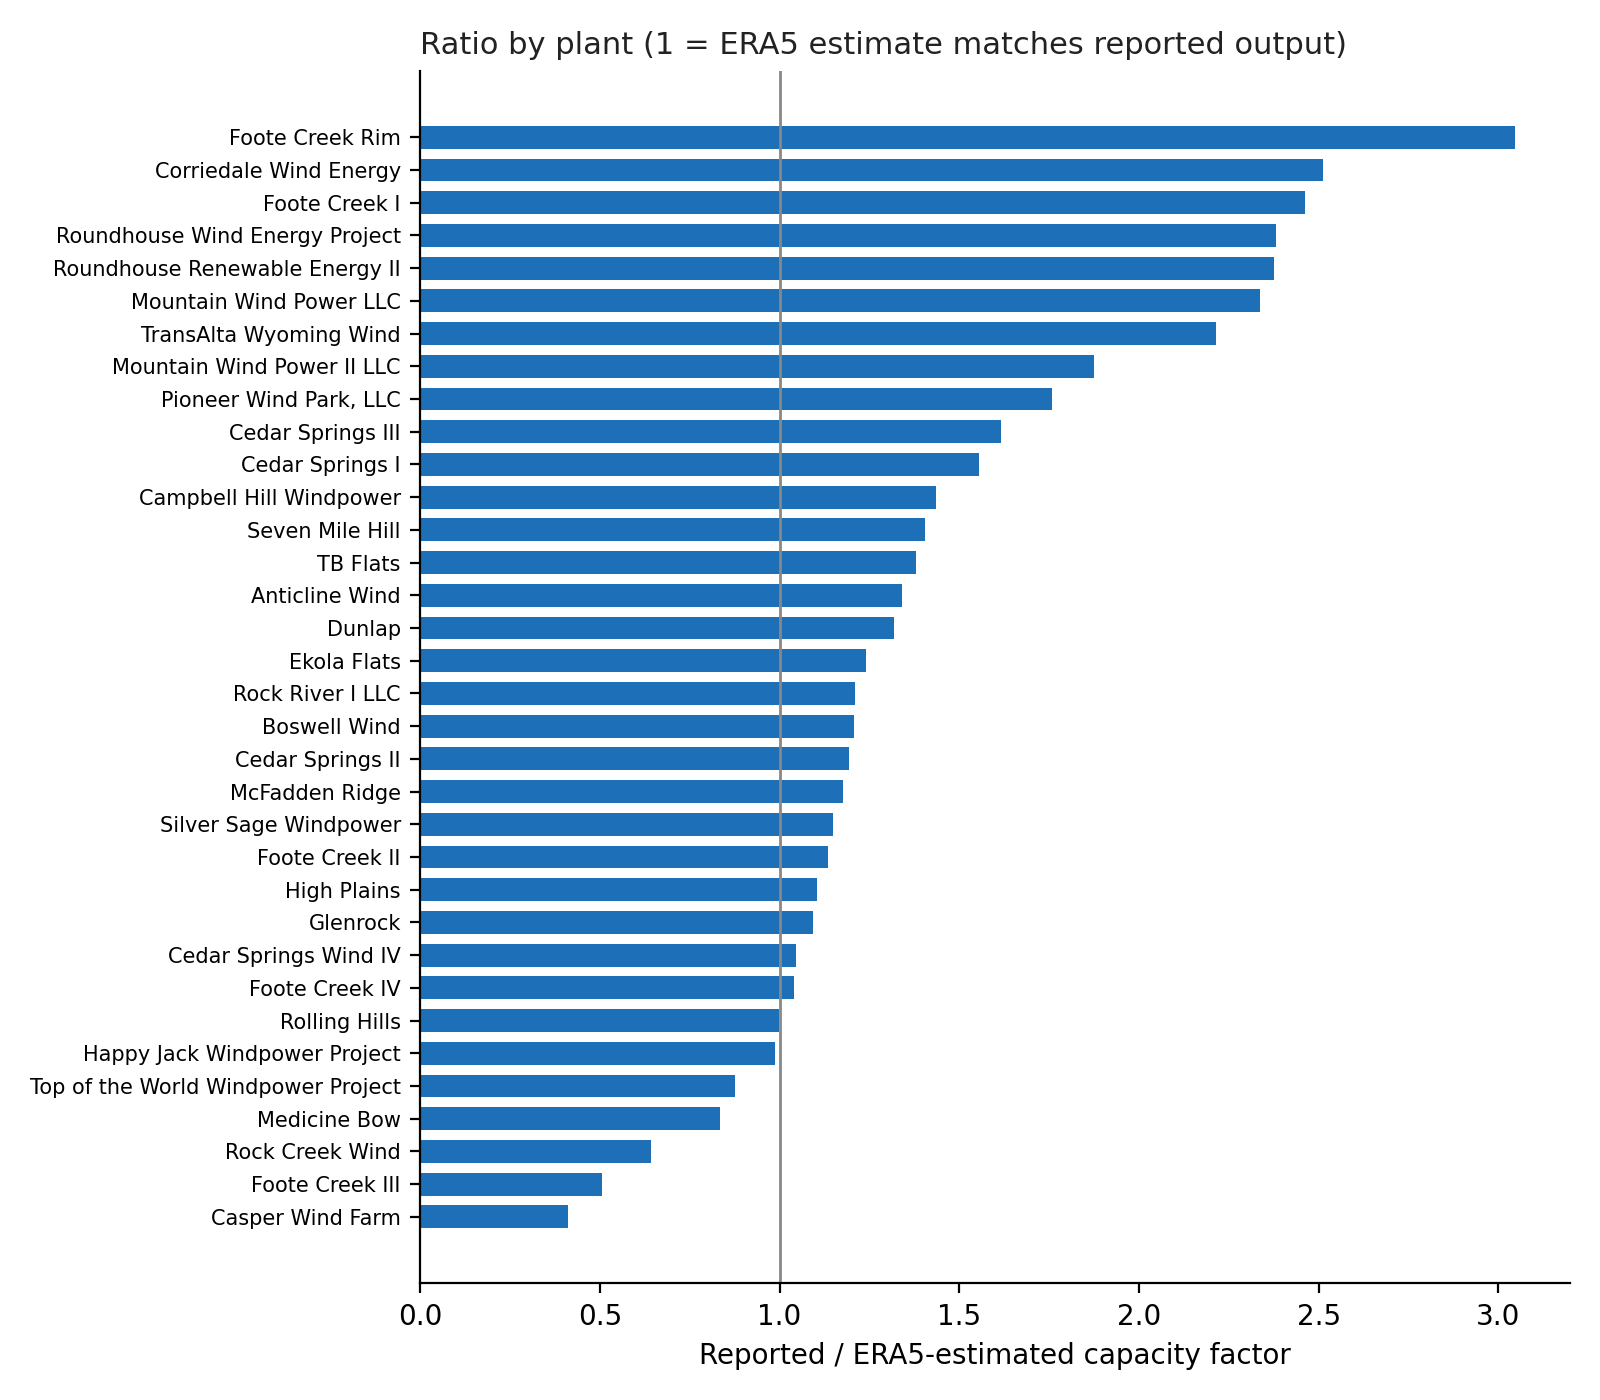
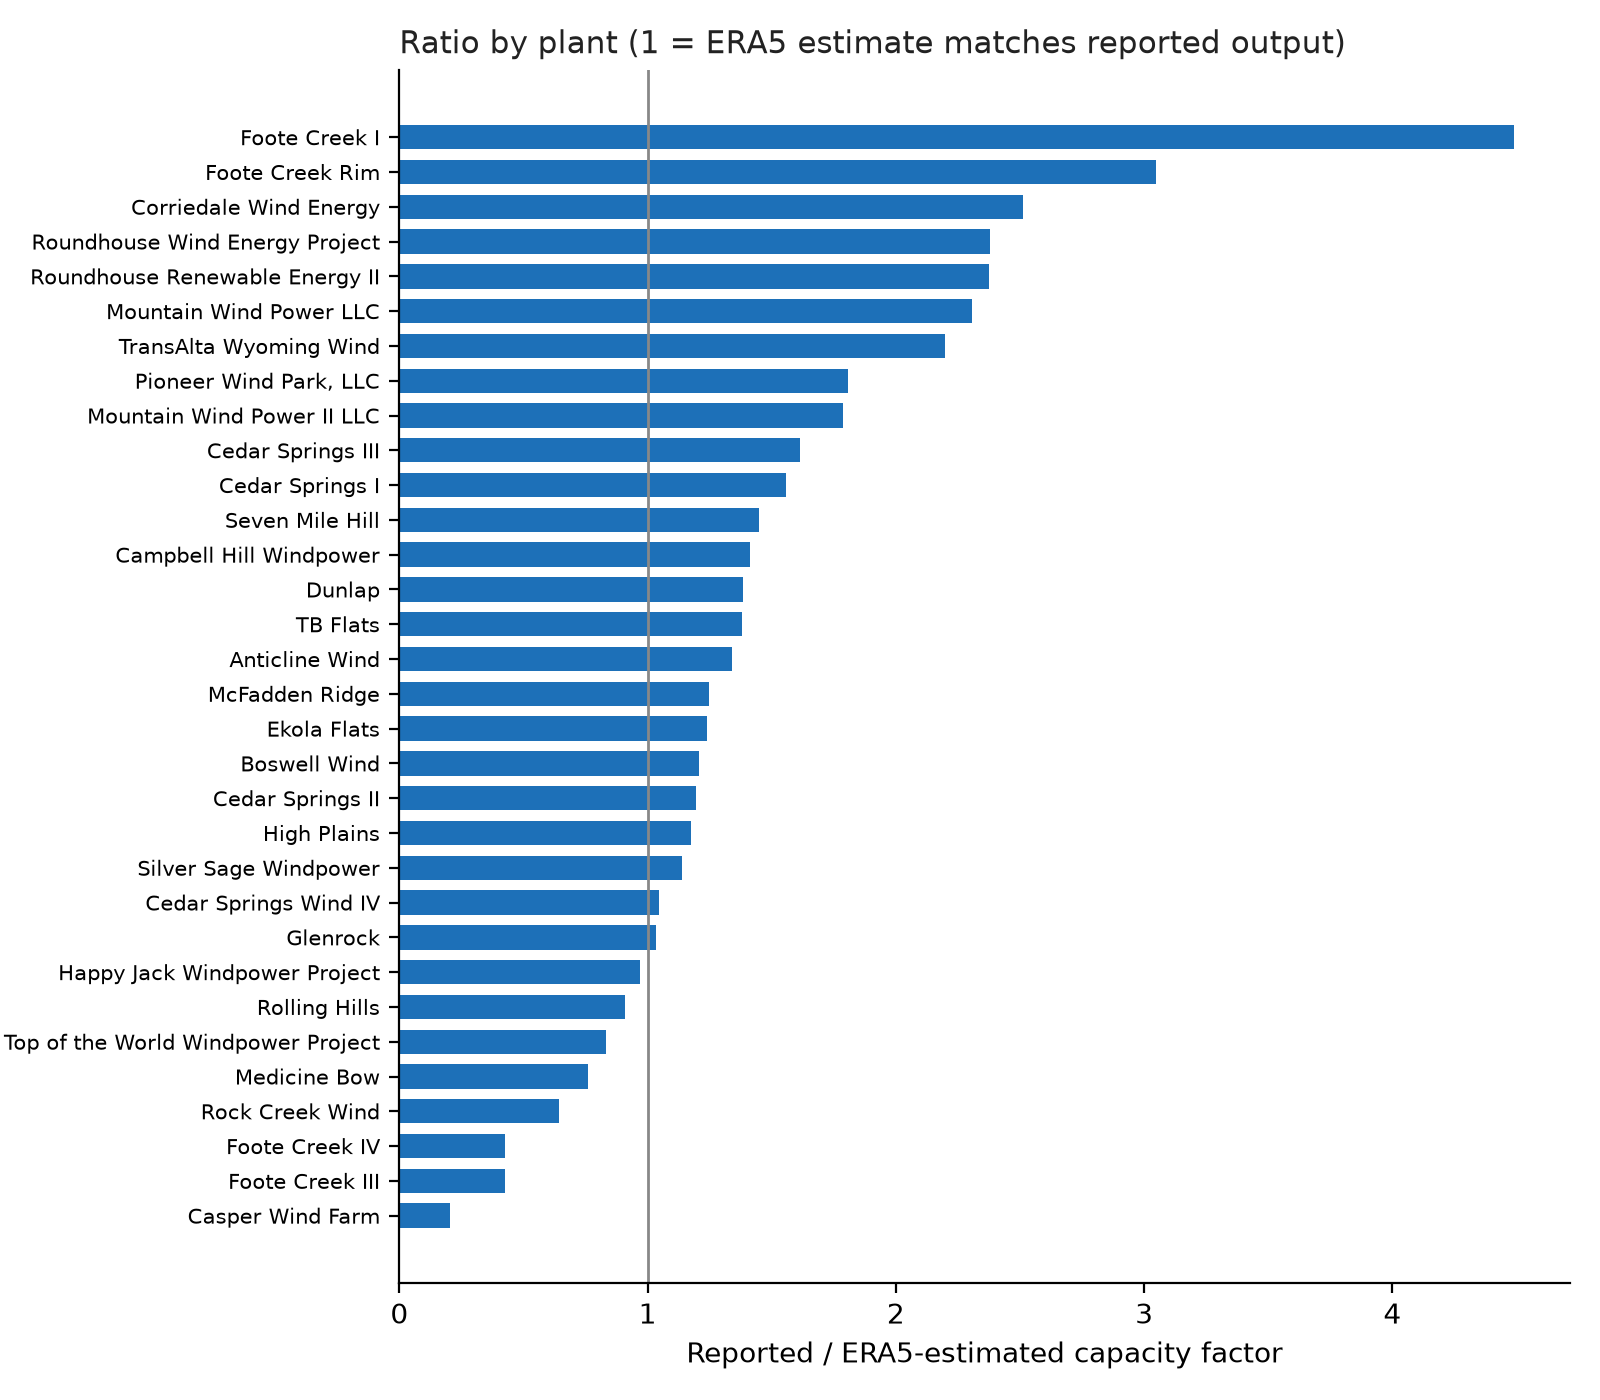
Leave out EIA-estimated monthly values; revise results

diff --git a/summarise.py b/summarise.py
@@ -2,7 +2,32 @@
 import numpy as np, pandas as pd, matplotlib
 matplotlib.use("Agg"); import matplotlib.pyplot as plt
 M = pd.read_csv("monthly_comparison.csv", parse_dates=["month"])
-ok = M.dropna(subset=["cf_reported"]); ok = ok[(ok.cf_reported > 0.02) & (ok.cap_mw > 0)]
+M["year"] = M.month.dt.year
+# EIA-923 respondent frequency (fetch_frequency.py). For annual respondents (A), EIA estimates the
+# monthly values by spreading the annual total over a common profile, so those plant-years are left out.
+F = pd.read_csv("data/eia923_respondent_frequency.csv")
+M = M.merge(F, on=["plant_id_eia", "year"], how="left")
+base = M.dropna(subset=["cf_reported"]); base = base[(base.cf_reported > 0.02) & (base.cap_mw > 0)]
+est = base[base.respondent_frequency == "A"]
+# Check: within each year, the estimated plants share one monthly profile exactly.
+spread = []
+for y, g in est.groupby("year"):
+    piv = g.pivot_table(index="plant_id_eia", columns=g.month.dt.month, values="gen_mwh").dropna()
+    if len(piv) > 1 and piv.shape[1] == 12:
+        sh = piv.div(piv.sum(axis=1), axis=0); spread.append((y, len(piv), float((sh.max() - sh.min()).max())))
+print("EIA-estimated plant-years, largest spread of monthly shares within a year:", spread)
+def headline(d):
+    s = d.groupby("plant_id_eia").agg(r=("cf_reported", "mean"), e=("cf_era5", "mean"))
+    c = d.groupby("plant_id_eia").apply(lambda g: np.corrcoef(g.cf_reported, g.cf_era5)[0, 1] if len(g) > 2 else np.nan)
+    m = d.groupby(d.month.dt.month).agg(r=("cf_reported", "mean"), e=("cf_era5", "mean")); m = m.r / m.e
+    return dict(plants=d.plant_id_eia.nunique(), plant_months=len(d), cf_reported=round(d.cf_reported.mean(), 3),
+                cf_era5=round(d.cf_era5.mean(), 3), ratio=round(d.cf_reported.mean() / d.cf_era5.mean(), 2),
+                median_plant_ratio=round((s.r / s.e).median(), 2), median_corr=round(c.median(), 2),
+                ratio_dec=round(m[12], 2), ratio_jul=round(m[7], 2))
+ok = base[base.respondent_frequency != "A"].copy()
+pd.DataFrame([dict(months="all, including EIA estimates", **headline(base)),
+              dict(months="reported monthly values only (used)", **headline(ok))]).to_csv("headline.csv", index=False)
+print(pd.read_csv("headline.csv").to_string())
 s = ok.groupby(["plant_id_eia", "name"]).agg(months=("month", "size"), cap_mw=("cap_mw", "max"),
         cf_reported=("cf_reported", "mean"), cf_era5=("cf_era5", "mean"), mean_v_hub=("v_hub", "mean"),
         mean_rho=("rho", "mean"))
@@ -14,7 +39,7 @@ seas = ok.groupby("mon").agg(cf_reported=("cf_reported", "mean"), cf_era5=("cf_e
 seas["ratio"] = seas.cf_reported / seas.cf_era5; seas.round(3).to_csv("seasonal_summary.csv")
 INK, MUTED, A, B = "#222222", "#888888", "#1d70b8", "#d4691a"
 fig, ax = plt.subplots(figsize=(8, 4.2))
-ax.plot(seas.index, seas.cf_reported, color=A, lw=2, marker="o", ms=5, label="Reported (EIA-923)")
+ax.plot(seas.index, seas.cf_reported, color=A, lw=2, marker="o", ms=5, label="Reported (EIA-923, monthly values only)")
 ax.plot(seas.index, seas.cf_era5, color=B, lw=2, marker="o", ms=5, label="ERA5 estimate")
 ax.set_xticks(range(1, 13)); ax.set_xticklabels(list("JFMAMJJASOND"))
 ax.set_ylabel("Mean capacity factor"); ax.set_ylim(0, 0.5)

diff --git a/fetch_frequency.py b/fetch_frequency.py
@@ -1,0 +1,36 @@
+"""Record how each Wyoming wind plant reported to EIA-923 in each year (data/eia923_respondent_frequency.csv).
+
+EIA-923's "Respondent Frequency" column is M for plants that report monthly and A for plants
+that report once a year. For A plants, EIA estimates the monthly values itself by spreading the
+annual total over a common monthly profile, so their monthly generation is not a measurement.
+(AM plants report annually but supply monthly values.) summarise.py leaves the A plant-years out.
+
+Downloads the EIA-923 archive files for 2019 to 2025 (about 22 MB each) into a temporary folder.
+"""
+import csv, io, tempfile, urllib.request, zipfile, pathlib
+import openpyxl
+
+URL = "https://www.eia.gov/electricity/data/eia923/archive/xls/f923_{y}.zip"
+rows = []
+with tempfile.TemporaryDirectory() as tmp:
+    for y in range(2019, 2026):
+        path = pathlib.Path(tmp) / f"f923_{y}.zip"
+        urllib.request.urlretrieve(URL.format(y=y), path)
+        z = zipfile.ZipFile(path)
+        name = next(n for n in z.namelist() if "Schedules_2_3_4_5" in n)
+        wb = openpyxl.load_workbook(io.BytesIO(z.read(name)), read_only=True)
+        ws = wb[next(s for s in wb.sheetnames if "Page 1 Generation and Fuel" in s)]
+        hdr = None
+        for r in ws.iter_rows(values_only=True):
+            if hdr is None:
+                if r and any(isinstance(c, str) and "Plant Id" in c for c in r if c):
+                    hdr = {str(c).replace("\n", " "): i for i, c in enumerate(r) if c}
+                    state = next(h for h in hdr if "State" in h)
+                continue
+            if r[hdr[state]] == "WY" and r[hdr["Reported Prime Mover"]] == "WT":
+                rows.append((r[hdr["Plant Id"]], y, r[hdr["Respondent Frequency"]] or ""))
+        print(y, name)
+rows = sorted(set(rows))
+with open("data/eia923_respondent_frequency.csv", "w", newline="") as f:
+    w = csv.writer(f); w.writerow(["plant_id_eia", "year", "respondent_frequency"]); w.writerows(rows)
+print(len(rows), "plant-years written")

diff --git a/README.md b/README.md
@@ -1,6 +1,6 @@
 # Wyoming wind capacity factors
 
-Noah Parsons. Results as of 21 November 2026.
+Noah Parsons. Results as of 22 November 2026 (revised to leave out monthly values that EIA estimates rather than collects).
 
 ## Question
 
@@ -11,6 +11,7 @@ Reanalysis estimates of wind output are widely used for planning studies and gri
 ## Data
 
 - **Reported output:** monthly net generation per generator from EIA-923, and capacity, operating and retirement dates from EIA-860, both through the PUDL data release (Catalyst Cooperative, CC-BY-4.0). A generator counts towards a month's capacity only if it was in service for the whole month.
+- **How each plant reported:** EIA-923's respondent-frequency code for every Wyoming wind plant, 2019 to 2025, read from EIA's own EIA-923 files by `fetch_frequency.py` (`data/eia923_respondent_frequency.csv`). Plants coded A report only an annual total; EIA then estimates their monthly values by spreading that total over a common monthly profile.
 - **Hub heights and turbine models:** the EIA-860 wind table (PUDL `core_eia860__scd_generators_wind`).
 - **Weather:** ERA5 hourly wind speed at 10 m and 100 m, 2 m temperature and surface pressure, from the Open-Meteo ERA5 archive, for the 0.25-degree cell nearest each plant. The data run from January 2019 to December 2025.
 
@@ -21,22 +22,33 @@ Reanalysis estimates of wind output are widely used for planning studies and gri
 3. Pass the result through a generic power curve: cut-in 3 m/s, rated 12 m/s, cut-out 25 m/s, cubic in between.
 4. Apply no losses. The gap between the estimate and the reported output is the quantity being measured.
 
-Plant-months with a reported capacity factor below 2% are left out, since they mostly reflect commissioning or outages. That leaves 34 plants and 1,945 plant-months.
+Plant-months with a reported capacity factor below 2% are left out, since they mostly reflect commissioning or outages.
+
+Plant-years in which EIA estimated the monthly values (code A) are also left out. They are not measurements: in each year from 2019 to 2022, every estimated plant has exactly the same monthly profile (the monthly shares agree to within 4 × 10⁻⁷), and in 2019 that covers all 21 plants then operating. This removes 681 of the 1,945 plant-months, leaving 32 plants and 1,264 plant-months, all from 2020 to 2025. Version 1 of these results, of 21 November 2026, included the estimated months; `headline.csv` gives both.
 
 ## Results
 
 | | Reported | ERA5 estimate | Ratio |
 |---|---|---|---|
-| All plant-months | 0.321 | 0.235 | 1.37 |
-| Median plant ratio | | | 1.23 |
+| All plant-months | 0.332 | 0.231 | 1.44 |
+| Median plant ratio | | | 1.29 |
 
-- **ERA5 underestimates Wyoming's wind output, and by far the most in summer.** In December the estimate is within 5% of reported output. In July it is less than half: a ratio of 2.31, falling from 1.05 in December (`seasonal_summary.csv`, `fig_seasonal.png`).
-- **The shortfall is largest at the ridge-top sites.** The worst ratios are at Foote Creek Rim (3.0), Corriedale (2.5), Foote Creek I (2.5), and Roundhouse and Roundhouse II (2.4) (`plant_summary.csv`, `fig_plant_ratio.png`). Foote Creek and Roundhouse sit on the high ridges west of Laramie and Cheyenne, terrain the 0.25-degree grid smooths away.
-- **ERA5 gets the timing right even where it gets the level wrong.** The median correlation between reported and estimated monthly capacity factor is 0.82. A plant-by-plant, month-by-month scaling factor would therefore recover most of the gap, and this table supplies one.
-- **A few plants sit well below the estimate, which points to their reported data, not to ERA5.** Casper Wind Farm reports a mean capacity factor of 9.3% (ratio 0.41), and Foote Creek III and Rock Creek have only 13 and 4 usable months. These are worth checking against EIA's raw filings before anything is concluded.
+(Including EIA's estimated months, as version 1 did: 0.321, 0.235, 1.36 and 1.22, from `headline.csv`; version 1 printed the last two as 1.37 and 1.23.)
+
+- **ERA5 underestimates Wyoming's wind output, and by far the most in summer.** In December the estimate is within 15% of reported output. In July it is less than half: a ratio of 2.29, against 1.15 in December (`seasonal_summary.csv`, `fig_seasonal.png`).
+- **The shortfall is largest at the ridge-top sites.** The worst ratios are at Foote Creek I (4.5, 11 months; see below), Foote Creek Rim (3.0), Corriedale (2.5), and Roundhouse and Roundhouse II (2.4) (`plant_summary.csv`, `fig_plant_ratio.png`). Foote Creek and Roundhouse sit on the high ridges west of Laramie and Cheyenne, terrain the 0.25-degree grid smooths away.
+- **ERA5 gets the timing right even where it gets the level wrong.** The median correlation between reported and estimated monthly capacity factor is 0.87 (0.82 with EIA's estimated months included, since those months follow EIA's profile rather than the wind). A plant-by-plant, month-by-month scaling factor would therefore recover most of the gap, and this table supplies one.
+- **A few plants' reported data look wrong, not ERA5.**
+  - *Foote Creek I* reports up to 23,349 MWh a month in 2023 against a listed capacity of 41.4 MW, a capacity factor of up to 0.79 for turbines installed in 1999. The output is consistent with the Foote Creek repowering being reported under the old plant before its capacity was updated. Leaving Foote Creek I out changes the overall ratio from 1.44 to 1.42 and the July ratio from 2.29 to 2.25.
+  - *Casper Wind Farm* reports a capacity factor of 4.7% in 2023, its only year of measured monthly data, and zero generation throughout 2024 and 2025 while still listed as operating.
+  - *Rock Creek Wind*, which entered service in September 2025, ramps from 9,000 to 78,000 MWh over its first four months, so its full 590 MW was not yet generating.
+  - *Foote Creek III and IV* have only one measured month each.
+
+  These are worth checking with EIA before anything is concluded.
 
 ## Limits
 
+- **Before 2020 there are no measured monthly values for any Wyoming wind plant in EIA-923,** so the comparison covers 2020 to 2025 only.
 - **The power curve is generic and no losses are applied,** so the absolute ratio is not an accuracy figure for ERA5 itself. The seasonal and site-to-site pattern, however, does not depend on that choice.
 - **The nearest grid cell is used, without interpolation or elevation correction.**
 - **This is a known effect.** Reanalysis wind is known to be biased low in complex terrain, and services such as Renewables.ninja apply correction factors for it. What this adds is a Wyoming, plant-by-plant and month-by-month quantification against reported output.
@@ -45,18 +57,19 @@ Plant-months with a reported capacity factor below 2% are left out, since they m
 
 1. Put these PUDL tables (Catalyst Cooperative data release, CC-BY-4.0) in `data/`: `out_eia__yearly_generators.parquet`, `out_eia923__monthly_generation_fuel_by_generator.parquet` and `core_eia860__scd_generators_wind.parquet`. They are not included because of their size.
 2. The ERA5 extracts used for the results are in `data/`. `python fetch_era5.py` downloads them again.
-3. Run:
+3. `data/eia923_respondent_frequency.csv` is included. `python fetch_frequency.py` rebuilds it from EIA's EIA-923 files (about 150 MB of downloads; needs openpyxl).
+4. Run:
 
 ```
 python wind.py        # monthly_comparison.csv
 python summarise.py   # plant and seasonal summaries, figures
 ```
 
-Python packages: numpy, pandas, pyarrow, matplotlib.
+Python packages: numpy, pandas, pyarrow, matplotlib, openpyxl.
 
 ## Sources and licences
 
-- **EIA-860 and EIA-923,** via the PUDL data release, Catalyst Cooperative (CC-BY-4.0).
+- **EIA-860 and EIA-923,** via the PUDL data release, Catalyst Cooperative (CC-BY-4.0); EIA-923 respondent frequency from EIA's own EIA-923 files (public domain).
 - **ERA5 hourly reanalysis** (Hersbach et al., Copernicus Climate Change Service), through the Open-Meteo historical archive (CC-BY-4.0). The extracts in `data/` contain modified Copernicus Climate Change Service information.
 
 ## Files
@@ -65,7 +78,8 @@ Python packages: numpy, pandas, pyarrow, matplotlib.
 |---|---|
 | `fetch_era5.py` | Downloads the ERA5 extracts |
 | `wind.py` | Builds the monthly comparison |
-| `summarise.py` | Tables and figures |
+| `fetch_frequency.py` | Records how each plant reported to EIA-923 (`data/eia923_respondent_frequency.csv`) |
+| `summarise.py` | Tables and figures, leaving out EIA-estimated months; `headline.csv` compares the results with and without them |
 | `monthly_comparison.csv` | Every plant-month: reported and estimated capacity factor, hub-height speed, air density |
 | `plant_summary.csv`, `seasonal_summary.csv` | The summaries above |
 | `fig_seasonal.png`, `fig_plant_ratio.png` | Figures |
